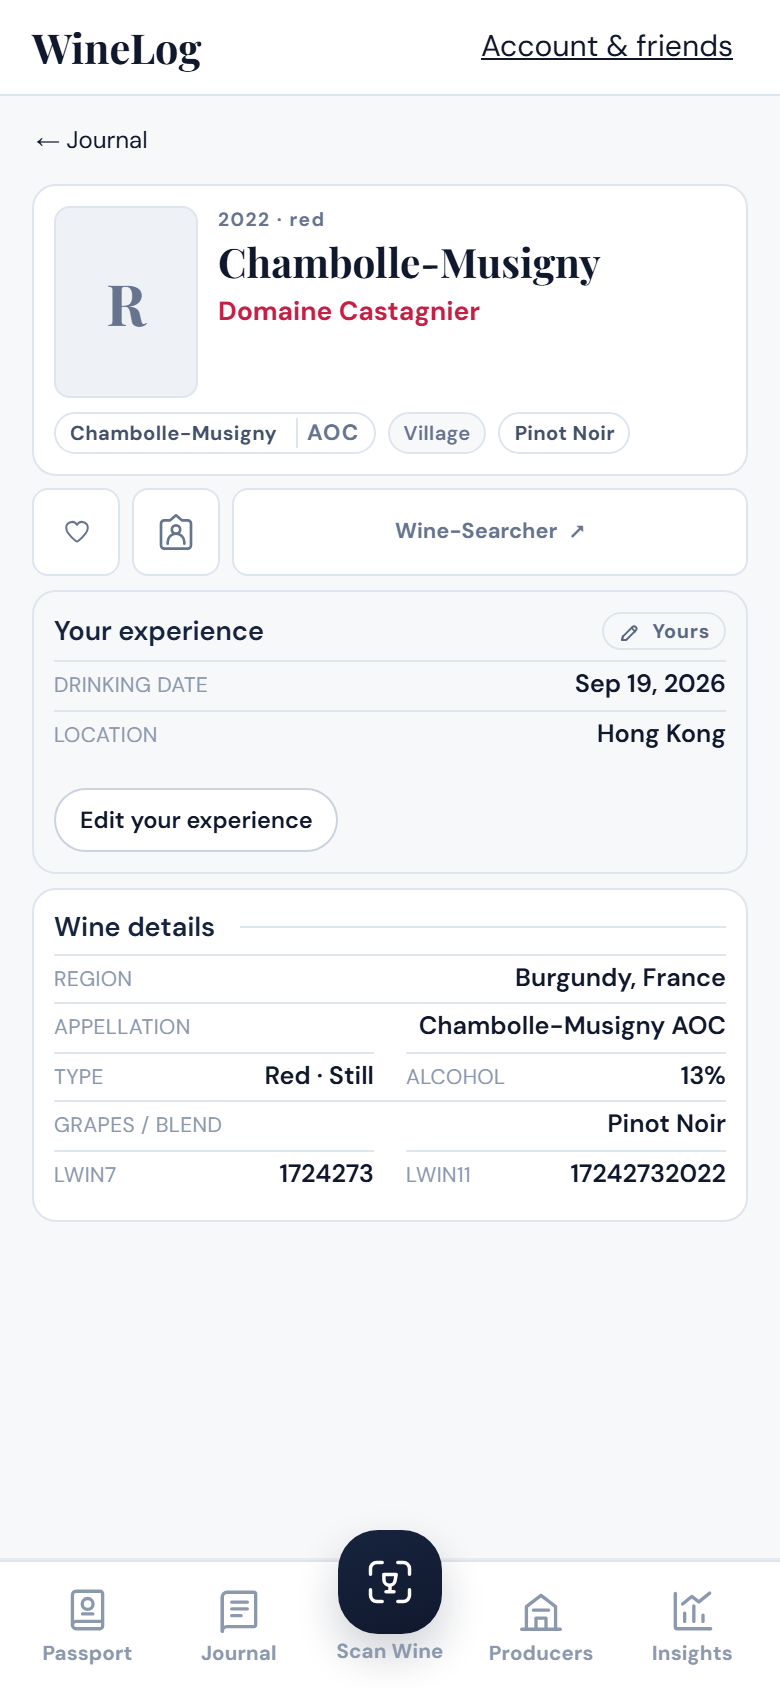
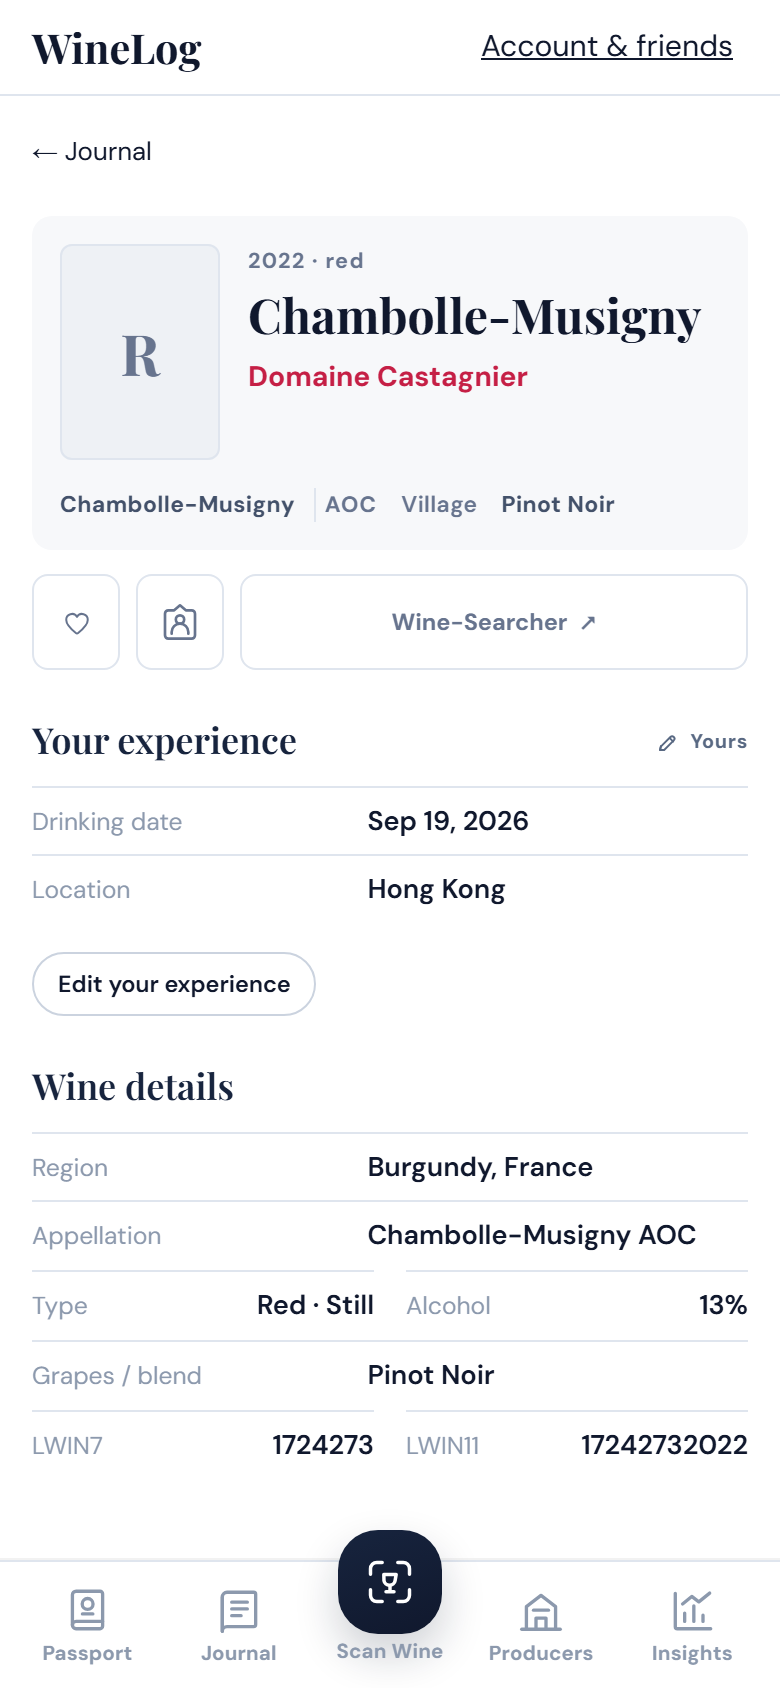
Give wine details breathing room and simplify sharing sheets

diff --git a/src/wineDetailCompact.css b/src/wineDetailCompact.css
@@ -1,35 +1,38 @@
-/* Mobile wine details use a compact reading layout. Keep controls large enough
-   to tap, and recover space from the header, card padding and fact-row gaps. */
+/* A continuous reading surface gives the mobile facts room without adding
+   another padded card around every section. Controls retain touch targets. */
 @media(max-width:700px){
  body:has(main .wine-detail) .topbar{height:calc(48px + var(--app-safe-top,0px))}
- main:has(.wine-detail){padding-top:4px}
- .wine-detail>.back-pill{display:inline-flex;align-items:center;min-height:36px;margin-bottom:4px;padding:4px 2px;border:0;background:transparent;font-size:.8rem}
- .wine-detail .wine-identity{padding:10px;border-radius:12px}
- .wine-detail .wine-identity .page-header{gap:10px}
- .wine-detail .wine-identity .page-header-body>h1{font-size:1.35rem;line-height:1.12}
- .wine-detail .wine-identity .page-header-body>.eyebrow{margin-bottom:3px;font-size:.64rem;letter-spacing:.08em}
- .wine-detail .wine-identity .detail-producer{margin:4px 0 0;font-size:.88rem;line-height:1.3}
- .wine-detail .wine-identity .detail-media{width:72px;gap:3px}
+ main:has(.wine-detail){padding-top:8px;background:var(--paper)}
+ .wine-detail>.back-pill{display:inline-flex;align-items:center;min-height:40px;margin-bottom:12px;padding:4px 0;border:0;background:transparent;font-size:.86rem}
+ .wine-detail .wine-identity{padding:14px;border:0;background:var(--ground);border-radius:10px}
+ .wine-detail .wine-identity .page-header{gap:14px}
+ .wine-detail .wine-identity .page-header-body>h1{font-size:1.6rem;line-height:1.16}
+ .wine-detail .wine-identity .page-header-body>.eyebrow{margin-bottom:6px;font-size:.72rem;letter-spacing:.06em}
+ .wine-detail .wine-identity .detail-producer{margin:7px 0 0;font-size:.94rem;line-height:1.4}
+ .wine-detail .wine-identity .detail-media{width:80px;gap:5px}
  .wine-detail .wine-identity .detail-bottle,
- .wine-detail .wine-identity .detail-media .detail-photo{height:96px}
+ .wine-detail .wine-identity .detail-media .detail-photo{height:108px}
  .wine-detail .wine-identity .detail-bottle,
- .wine-detail .wine-identity .detail-media .detail-photo-button{width:72px;min-height:0;border-radius:8px}
- .wine-detail .detail-photo-count{font-size:.64rem}
- .wine-detail .wine-identity>.detail-pills{margin-top:7px;gap:4px 6px}
- .wine-detail .detail-pills>span{padding:2px 7px;font-size:.67rem}
- .wine-detail .wine-actions{grid-template-columns:44px 44px repeat(2,minmax(0,1fr));gap:6px;margin-top:6px}
+ .wine-detail .wine-identity .detail-media .detail-photo-button{width:80px;min-height:0;border-radius:6px}
+ .wine-detail .detail-photo-count{font-size:.72rem}
+ .wine-detail .wine-identity>.detail-pills{margin-top:14px;gap:8px 12px}
+ .wine-detail .detail-pills>span{padding:0;border:0;border-radius:0;background:transparent;font-size:.76rem;line-height:1.5}
+ .wine-detail .wine-actions{grid-template-columns:44px 44px repeat(2,minmax(0,1fr));gap:8px;margin-top:12px}
  .wine-detail .wine-actions>button,
- .wine-detail .wine-actions>a{min-height:44px;padding:5px 4px;border-radius:8px;font-size:.72rem;line-height:1.2}
+ .wine-detail .wine-actions>a{min-height:48px;padding:6px 4px;border-radius:8px;font-size:.78rem;line-height:1.3}
  .wine-detail .detail-favorite-label,
  .wine-detail .detail-search-prefix{display:none}
  .wine-detail.shared-wine-detail .wine-actions{grid-template-columns:44px 44px minmax(0,1fr)}
- .wine-detail>.detail-section{margin-top:7px;padding:10px;border-radius:12px}
- .wine-detail .detail-section>.section-label{margin-bottom:5px;font-size:.9rem}
- .wine-detail .section-label .provenance-chip{padding:2px 7px}
- .wine-detail dl.detail-facts{margin:4px 0 0}
- .wine-detail dl.detail-facts>div{padding:3px 0;line-height:1.4}
- .wine-detail dl.detail-facts dt{font-size:.7rem;letter-spacing:.02em}
- .wine-detail dl.detail-facts dd{font-size:.84rem}
- .wine-detail .detail-experience-empty{margin:4px 0 0}
- .wine-detail .detail-section .detail-experience-notes{margin:7px 0 0;padding-top:7px;font-size:.94rem;line-height:1.4}
+ .wine-detail>.detail-section{margin-top:24px;padding:0;border:0;border-radius:0;background:transparent}
+ .wine-detail .detail-section>.section-label{margin-bottom:10px;font-family:'Playfair Display',serif;font-size:1.2rem;line-height:1.3}
+ .wine-detail .detail-section>.section-label::after{display:none}
+ .wine-detail .section-label .provenance-chip{margin-left:auto;padding:0;border:0;background:transparent}
+ .wine-detail dl.detail-facts{margin:0}
+ .wine-detail dl.detail-facts>div{display:grid;grid-template-columns:minmax(0,.9fr) minmax(0,1.1fr);padding:7px 0;gap:12px;line-height:1.45}
+ .wine-detail dl.detail-facts dt{font-size:.82rem;letter-spacing:0;text-transform:none}
+ .wine-detail dl.detail-facts dd{font-size:.9rem;text-align:left}
+ .wine-detail dl.detail-facts>.detail-fact-paired{display:flex;gap:4px 8px}
+ .wine-detail dl.detail-facts>.detail-fact-paired dd{text-align:right}
+ .wine-detail .detail-experience-empty{margin:0;line-height:1.5}
+ .wine-detail .detail-section .detail-experience-notes{margin:12px 0 0;padding-top:12px;font-family:inherit;font-size:.94rem;line-height:1.55}
 }

diff --git a/tests/e2e/wine-sharing-detail.spec.ts b/tests/e2e/wine-sharing-detail.spec.ts
@@ -36,7 +36,7 @@ for(const role of ['owner','member'])for(const width of [320,390,1280])test(`${r
  await expect(tag).toHaveAttribute('aria-pressed','false');
  await tag.click();
  const sheet=page.getByRole('dialog',{name:'Tag friends',exact:true});
- await expect(sheet).toContainText('Not shared yet');
+ await expect(sheet.locator('.friend-tag-relationship')).toHaveCount(0);
  await sheet.getByRole('button',{name:'Alice',exact:true}).click();
  await sheet.getByRole('button',{name:'Bob',exact:true}).click();
  await sheet.getByRole('button',{name:'Confirm tags',exact:true}).click();
@@ -49,10 +49,10 @@ for(const role of ['owner','member'])for(const width of [320,390,1280])test(`${r
  await expect(tag).toHaveAttribute('aria-pressed','true');
  await expect(page.getByText('Shared with Alice, Bob',{exact:true})).toHaveCount(0);
  await tag.click();
- await expect(sheet).toContainText('Shared with Alice, Bob');
- // Unsaved selection changes must not change the saved sharing relationship.
+ await expect(sheet.locator('.friend-tag-relationship')).toHaveCount(0);
+ // Cancelled picker changes must not alter the saved sharing state.
  await sheet.getByRole('button',{name:'Alice',exact:true}).click();
- await expect(sheet).toContainText('Shared with Alice, Bob');
+ await expect(sheet.locator('.friend-tag-relationship')).toHaveCount(0);
  await sheet.getByRole('button',{name:'Cancel',exact:true}).click();
  await expect(tag).toHaveAttribute('aria-pressed','true');
  await tag.click();
@@ -75,8 +75,12 @@ for(const role of ['owner','member'])test(`${role}: recipient sharing sheet name
  const tag=page.getByRole('button',{name:'Sharing details',exact:true});
  await expect(tag).not.toHaveClass(/active/);
  await tag.click();
- const sheet=page.getByRole('dialog',{name:'Sharing',exact:true});
+ const sheet=page.getByRole('dialog',{name:'Tagged friends',exact:true});
  await expect(sheet).toContainText('Shared by Gary');
+ const heading=(await sheet.getByRole('heading',{name:'Tagged friends',exact:true}).boundingBox())!;
+ const relationship=(await sheet.getByText('Shared by Gary',{exact:true}).boundingBox())!;
+ expect(relationship.y).toBeGreaterThanOrEqual(heading.y+heading.height);
+ await expect(sheet.locator('footer').getByRole('button',{name:'Close',exact:true})).toBeVisible();
  await expect(sheet.getByRole('group',{name:'Friends'})).toHaveCount(0);
  await expect(sheet.getByRole('button',{name:'Confirm tags'})).toHaveCount(0);
  await expect(sheet).not.toContainText(/Alice|Bob/);

diff --git a/src/features/wines/FriendTagDialog.tsx b/src/features/wines/FriendTagDialog.tsx
@@ -50,12 +50,15 @@ export function FriendTagDialog({
   };
   return <div className="friend-tag-backdrop" role="presentation" onClick={()=>{if(!busy)onClose()}}>
     <section ref={sheet} tabIndex={-1} className="friend-tag-dialog" role="dialog" aria-modal="true" aria-labelledby={titleId} onClick={event=>event.stopPropagation()}>
-      {relationship&&<p className="friend-tag-relationship">{relationship}</p>}
-      <header className="friend-tag-heading"><div><p className="eyebrow">FRIENDS</p><h2 id={titleId}>{title}</h2></div><button type="button" className="friend-tag-close" aria-label="Close" disabled={busy} onClick={onClose}>×</button></header>
+      <header className="friend-tag-heading"><div><p className="eyebrow">FRIENDS</p><h2 id={titleId}>{title}</h2></div>{!readOnly&&<button type="button" className="friend-tag-close" aria-label="Close" disabled={busy} onClick={onClose}>×</button>}</header>
+      {readOnly&&<>
+        {relationship&&<p className="friend-tag-relationship">{relationship}</p>}
+        <footer className="friend-tag-actions"><button type="button" className="primary" onClick={onClose}>Close</button></footer>
+      </>}
       {!readOnly&&<>
       <p className="friend-tag-description">{description}</p>
       {friends.length?<div className="friend-tag-grid" role="group" aria-label="Friends">
-        {friends.map(friend=>{const active=selected.includes(friend.id),atLimit=selected.length>=maxSelected&&!active;return <button type="button" key={friend.id} className={`friend-tag-chip${active?' selected':''}`} aria-pressed={active} disabled={busy||atLimit} onClick={()=>toggle(friend.id)}>
+        {friends.map(friend=>{const active=selected.includes(friend.id),atLimit=selected.length>=maxSelected&&!active;return <button type="button" key={friend.id} className={`friend-tag-chip${active?' selected':''}`} aria-pressed={active} disabled={busy||confirmDisabled||atLimit} onClick={()=>toggle(friend.id)}>
           <span className="friend-tag-check" aria-hidden="true">{active?'✓':''}</span>
           <span>{friend.display_name}</span>
           {friend.defaultShare&&<small>Default</small>}

diff --git a/src/features/wines/WineSharing.tsx b/src/features/wines/WineSharing.tsx
@@ -37,11 +37,9 @@ export function WineSharing({wineId,ownerName}:Props){
   }catch(e){setError((e as Error).message)}
   finally{setBusy(false)}
  }
- const names=tagged.map(id=>friends.find(friend=>friend.id===id)?.display_name??'Unavailable friend');
- const relationship=readOnly?`Shared by ${ownerName}`:loading?'Loading sharing details…':!ready?'Sharing details unavailable.':names.length?`Shared with ${names.join(', ')}`:'Not shared yet';
  return <>
   <button ref={trigger} type="button" className={`detail-share-button${!readOnly&&tagged.length?' active':''}`} aria-label={readOnly?'Sharing details':'Tag friends'} title={readOnly?'Sharing details':'Tag friends'} aria-pressed={readOnly?undefined:tagged.length>0} aria-haspopup="dialog" aria-expanded={open} onClick={()=>open?close():void show()}><AppIcon kind="person-tag"/></button>
-  <FriendTagDialog open={open} title={readOnly?'Sharing':'Tag friends'} relationship={relationship} readOnly={readOnly} confirmDisabled={!ready||loading} description="Choose friends who can see this wine. Wine identity, details and attached wine photos are shared; each friend keeps their own notes, rating and tasting experience." friends={friends} selected={selected} busy={busy} error={error} onSelectedChange={setSelected} onConfirm={()=>void save()} onClose={close}/>
+  <FriendTagDialog open={open} title={readOnly?'Tagged friends':'Tag friends'} relationship={readOnly?`Shared by ${ownerName}`:undefined} readOnly={readOnly} confirmDisabled={!ready||loading} description="Choose friends who can see this wine. Wine identity, details and attached wine photos are shared; each friend keeps their own notes, rating and tasting experience." friends={friends} selected={selected} busy={busy} error={error} onSelectedChange={setSelected} onConfirm={()=>void save()} onClose={close}/>
   {message&&<span className="wine-sharing-status" role="status">{message}</span>}
  </>;
 }

diff --git a/src/friendTags.css b/src/friendTags.css
@@ -2,7 +2,7 @@
 .friend-tag-dialog{width:min(560px,100%);max-height:min(78vh,720px);overflow:auto;background:var(--paper);border:1px solid var(--line);border-radius:24px 24px 18px 18px;padding:22px;box-shadow:0 24px 64px rgb(10 17 31/.22)}
 .friend-tag-heading{display:flex;align-items:flex-start;justify-content:space-between;gap:16px}.friend-tag-heading h2{margin:.15rem 0 0}.friend-tag-close{border:0;background:transparent;font-size:2rem;line-height:1;padding:2px 8px}.friend-tag-close:hover:not(:disabled){background:transparent;border-color:transparent;color:var(--ink-2)}
 .friend-tag-description{margin:12px 0 18px;color:var(--muted,#5f6778)}
-.friend-tag-relationship{margin:0 0 12px;color:var(--ink-6);font-size:.82rem;overflow-wrap:anywhere}
+.friend-tag-relationship{margin:16px 0 0;color:var(--ink-6);font-size:.94rem;line-height:1.5;overflow-wrap:anywhere}
 .friend-tag-grid{display:grid;grid-template-columns:repeat(2,minmax(0,1fr));gap:10px}
 .friend-tag-chip{min-height:58px;display:grid;grid-template-columns:24px minmax(0,1fr);grid-template-areas:"check name" "check meta";align-items:center;text-align:left;gap:0 10px;border:1px solid var(--line);border-radius:14px;background:var(--paper);padding:10px 12px}
 .friend-tag-chip.selected{border-color:currentColor;box-shadow:inset 0 0 0 1px currentColor}.friend-tag-check{grid-area:check;width:22px;height:22px;border:1px solid currentColor;border-radius:7px;display:grid;place-items:center}.friend-tag-chip>span:nth-child(2){grid-area:name;font-weight:650;overflow:hidden;text-overflow:ellipsis}.friend-tag-chip small{grid-area:meta;opacity:.65}

diff --git a/src/styles.css b/src/styles.css
@@ -44,7 +44,7 @@
   --danger:#a52b3e;
   /* Shared bottles are part of your journal, but not copies you own. A quiet
      lilac surface marks that provenance without spending card space on a label. */
-  --shared-wash:#f6f2fa;--shared-line:#ddd3e9;--shared-ink:#654a7c;
+  --shared-wash:#f6f2fa;--shared-line:#ddd3e9;
 
   /* What is in the glass, for the tile shown when a wine has no photo yet.
      Keyed to the pour rather than to status, so sparkling is not green. */
@@ -113,7 +113,7 @@
     --danger:#b3243c;
     /* Shared journal cards need a clearly distinct lilac surface in dark mode;
        the previous wash sat almost on top of --paper and was easy to miss. */
-    --shared-wash:#30243f;--shared-line:#73588c;--shared-ink:#e1c8f3;
+    --shared-wash:#30243f;--shared-line:#73588c;
 
     --pour:#212a3b;--pour-ink:#8f9bb1;
     --pour-red:#2c171d;--pour-red-ink:#f0909f;

diff --git a/tests/e2e/wine-detail-layout.spec.ts b/tests/e2e/wine-detail-layout.spec.ts
@@ -48,9 +48,6 @@ for(const role of ['owner','member'])for(const route of ['/wines/layout-wine','/
    });
    expect(contained).toBe(true);
    if(width<700){
-    const factBounds=(await facts.boundingBox())!;
-    const navBounds=(await page.getByRole('navigation',{name:'Mobile navigation'}).boundingBox())!;
-    expect(factBounds.y+factBounds.height).toBeLessThan(navBounds.y);
     const actions=await page.locator('.wine-actions>button,.wine-actions>a').evaluateAll(items=>items.map(item=>({top:item.getBoundingClientRect().top,height:item.getBoundingClientRect().height})));
     expect(new Set(actions.map(action=>action.top)).size).toBe(1);
     expect(actions.every(action=>action.height>=44)).toBe(true);

diff --git a/docs/mockups/compact-wine-detail.md b/docs/mockups/compact-wine-detail.md
@@ -1,14 +1,16 @@
-# Compact wine detail preview
+# Wine detail preview
 
-Screenshots of the implemented page at a 390 × 844 mobile viewport, using a member account, sample wine data and the no-photo placeholder. The same compact layout applies to owner accounts. The reference has been manually confirmed, so the LWIN review controls are hidden.
+Screenshots of the implemented page at a 390 × 844 mobile viewport, using a member account, sample wine data and the no-photo placeholder. The same layout applies to owner accounts and received wines. The reference has been manually confirmed, so the LWIN review controls are hidden.
 
-The action row contains Favourite, Tag friends (person icon), Edit tasting, and Wine-Searcher. Type/Alcohol and LWIN7/LWIN11 each share a row. The mobile layout retains 44px action targets and safe-area spacing.
+The mobile page uses a continuous reading surface, larger text, and space between sections, following the comfortable spacing of the supplied reference. Removing separate padded cards saves space without squeezing the text. Type/Alcohol and LWIN7/LWIN11 each share a row. Actions retain accessible touch targets and safe-area spacing.
+
+The action row contains Favourite, Tag friends (person icon), Edit tasting, and Wine-Searcher.
 
 | Light | Dark |
 | --- | --- |
 | ![Light mobile preview](compact-wine-detail-light.png) | ![Dark mobile preview](compact-wine-detail-dark.png) |
 
-The person icon is coloured when your wine has recipients. The saved relationship is shown inside the sheet, independently of unsaved picker changes. For a wine shared with you, the icon stays neutral and opens a read-only sheet naming only the sharer; it never loads the sharer's recipient list.
+The person icon is coloured when your wine has saved recipients. The sharing sheet shows the selected people without repeating a “Shared with” summary. For a wine shared with you, the neutral icon opens a read-only sheet headed “Tagged friends”, followed by “Shared by Gary” and a Close button. It never loads the sharer's recipient list.
 
 | Your wine: sharing sheet | Received wine: sharing sheet |
 | --- | --- |
